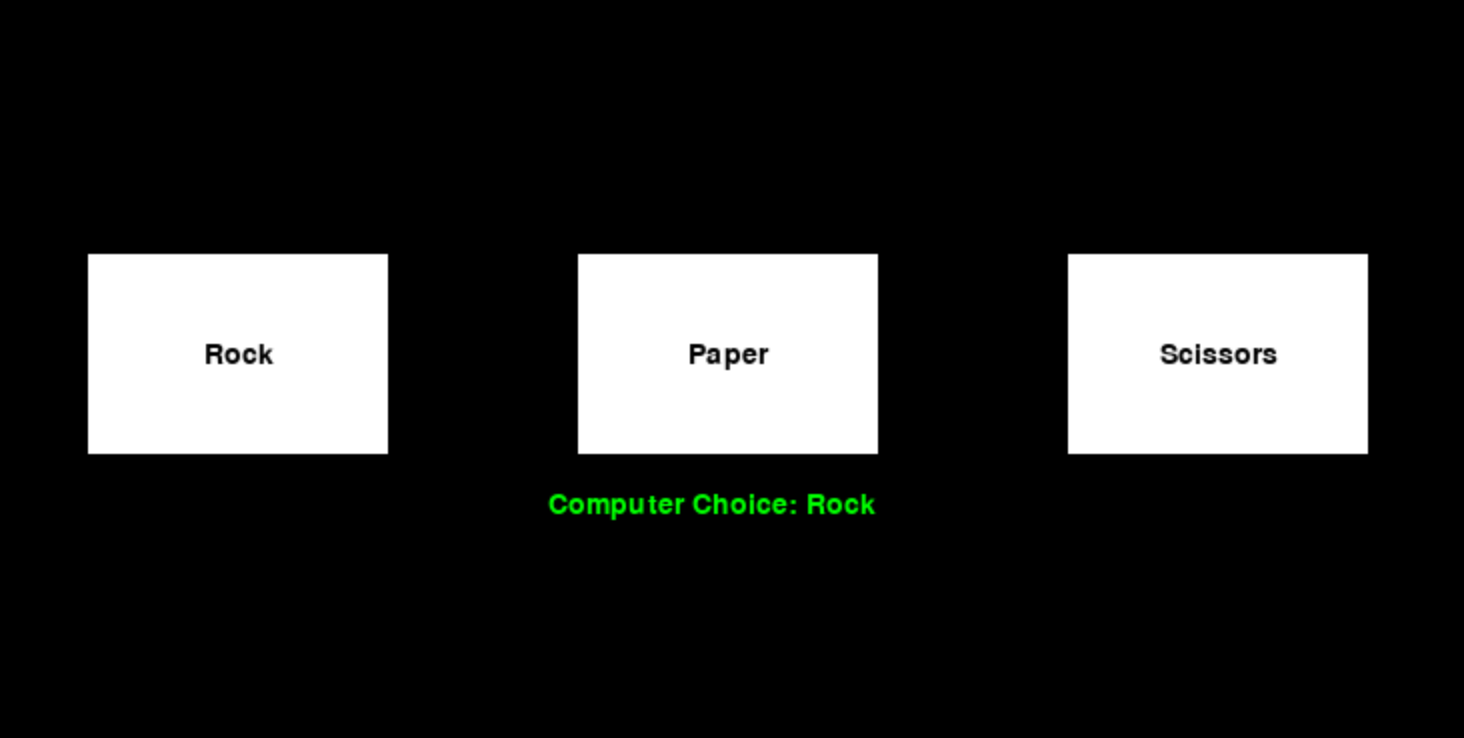
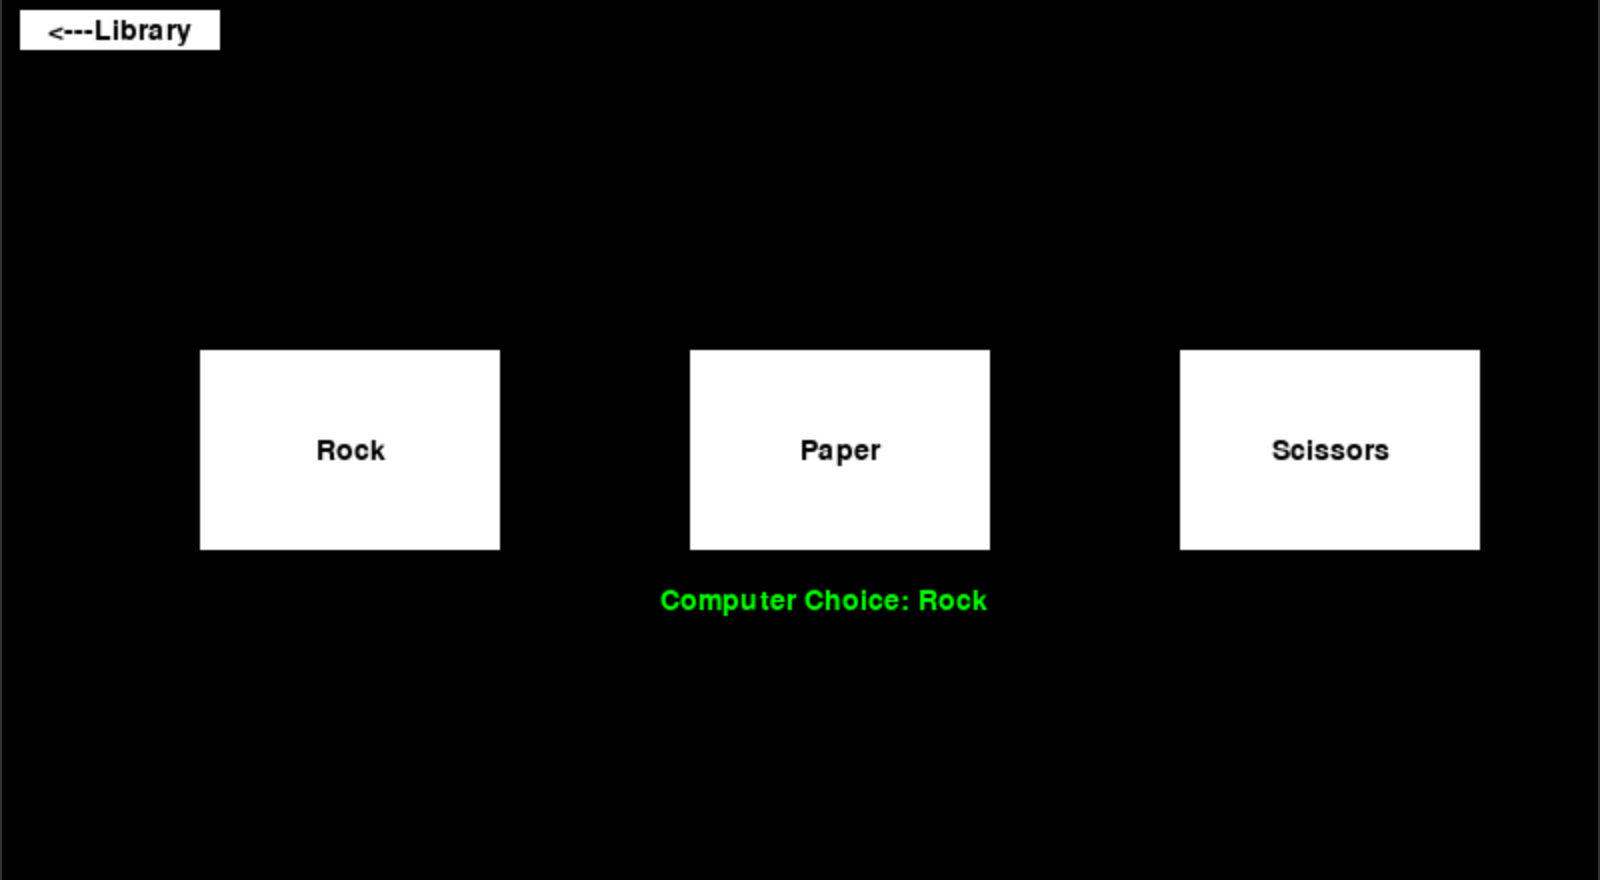
added imgs and stuff

diff --git a/main.py b/main.py
@@ -333,12 +333,17 @@ class Line():
         self.height = height
 
 class Button():
-    def __init__(self, x, y, width, height, name):
+    def __init__(self, x, y, width, height, name, file = None):
         self.x = x
         self.y = y
         self.width = width
         self.height = height
         self.name = name
+        self.img = None
+        if file:
+            self.img = pygame.image.load(file)
+            self.img = pygame.transform.rotozoom(self.img, 0, 0.08)
+
     def update(self):
         mousePos = pygame.mouse.get_pos()
         if pygame.mouse.get_pressed()[0] and mousePos[0] >= self.x - self.width / 2 and mousePos[0] <= self.x + self.width / 2 and mousePos[1] >= self.y - self.height / 2 and mousePos[1] <= self.y + self.height / 2:
@@ -353,6 +358,9 @@ class Button():
             text = font.render(self.name, True, (0, 0, 0))
             textRect = text.get_rect(center = (self.x, self.y + 40))
         screen.blit(surf, rect)
+        if self.img:
+            imgRect = self.img.get_rect(center = (self.x, self.y - 15))
+            screen.blit(self.img, imgRect)
         screen.blit(text, textRect)
 
 class RPSButton():
@@ -461,12 +469,13 @@ fpsClock = pygame.time.Clock()
 screen = pygame.display.set_mode((WIDTH, HEIGHT))
 buttons = []
 buttonNames = ["Library", "Rock Paper Scissors", "Tic Tac Toe", "Pong", "Snake", "Space Invaders", "Connect 4"]
+buttonFiles = [None, "RPS.png", "TTT.png", "Pong.png", "Snake.png", "SI.png", "C4.png"] 
 running = buttonNames[0]
 buttons.append(Button(60, 15, 100, 20, buttonNames[0]))
 pongGameOver = False
 for i in range(3):
     for j in range(2):
-        buttons.append(Button(175 + 225 * i, 135 + 180 * j, 150, 120, buttonNames[1 + i * 2 + j]))
+        buttons.append(Button(175 + 225 * i, 135 + 180 * j, 150, 120, buttonNames[1 + i * 2 + j], buttonFiles[i * 2 + j + 1]))
 score = 0
 player = Defender(30, 400, screen)
 gameOver = False
@@ -482,7 +491,7 @@ connect4 = C4Board(screen)
 p1 = PongPlayer(40, 220, screen, 1)
 p2 = PongPlayer(760, 220, screen, 2)
 pongBall = PongBall(screen)
-
+flag = False
 connect4Over = 0
 
 snakePlayer = Snake(screen)
@@ -587,8 +596,8 @@ while running:
             if pongGameOver:
                 if pygame.key.get_pressed()[K_r]:
                     pongGameOver = False
-                    p1 = PongPlayer(40, 220, screen)
-                    p2 = PongPlayer(760, 220, screen)
+                    p1 = PongPlayer(40, 220, screen, 1)
+                    p2 = PongPlayer(760, 220, screen, 2)
                     pongBall = PongBall(screen)
                     continue
 
@@ -656,7 +665,11 @@ while running:
                 pygame.display.flip()
                 fpsClock.tick(fps)
                 continue
+            if pygame.key.get_pressed()[K_SPACE]:
+                flag = True
             fps = 10
+            if flag:
+                fps = 1
             pressed_keys = pygame.key.get_pressed()
             snakeBoard.update()
             out = snakePlayer.update(pressed_keys, apple)
